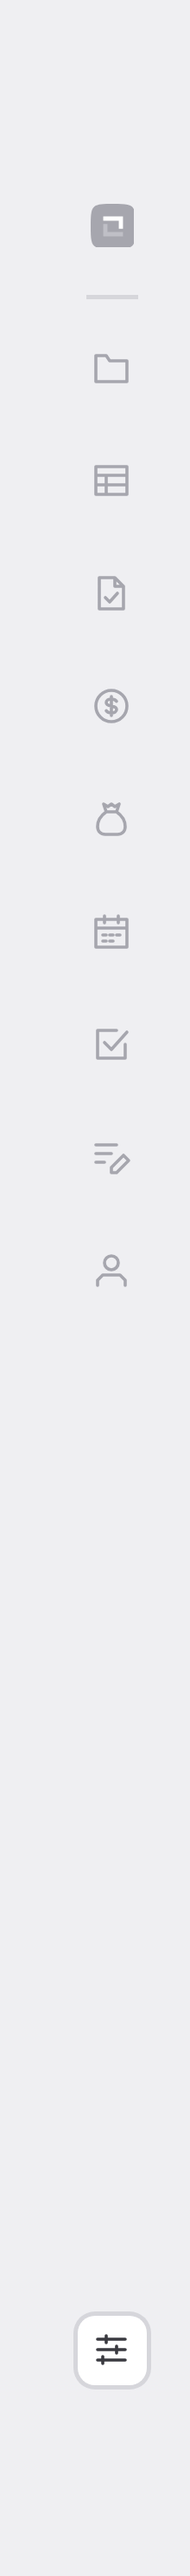
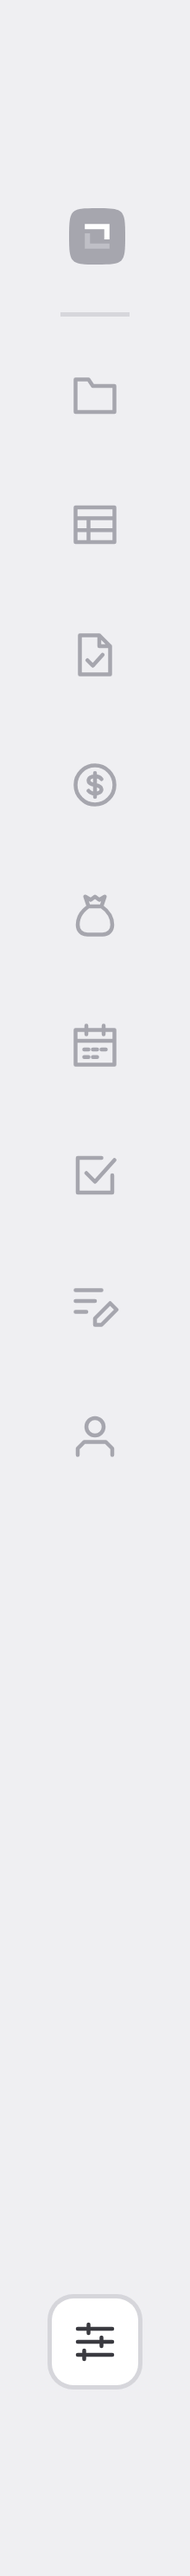
manual: band gray widened 5mm to the right, symbols unchanged [skip ci]
Claude-Session: https://claude.ai/code/session_01Jceth8a6knanqAjrfV6UhR

diff --git a/docs/manual/hangul/cover/띠-그림-22mm-아이콘그대로.html b/docs/manual/hangul/cover/띠-그림-22mm-아이콘그대로.html
@@ -1,0 +1,5 @@
+<!doctype html><meta charset=utf-8><style>body{margin:0;background:#fff}.band{width:44px;height:594px;background:#EFEFF2;position:relative;display:inline-block;margin-right:10px;vertical-align:top}
+.list{position:absolute;top:44px;left:10px;right:10px;display:flex;flex-direction:column;align-items:center;gap:10px}
+.bot{position:absolute;bottom:44px;left:10px;right:10px;display:flex;justify-content:center}
+.sm{width:20px;height:20px;border-radius:5px;display:flex;align-items:center;justify-content:center}.sm.on{background:#fff;box-shadow:0 0 0 1px #D6D6DB}
+.sm svg{display:block}.sdiv{width:16px;height:1px;background:#D6D6DB;margin:-2px 0}</style><div class="band" id="b_overview"><div class="list"><div class="sm on"><svg viewBox="0 0 100 100" width="13" height="13"><path d="M50 0C97.7 0 100 2.3 100 50C100 97.7 97.7 100 50 100C2.3 100 0 97.7 0 50C0 2.3 2.3 0 50 0Z" fill="#3A3A40"/><g transform="translate(50 50) scale(0.667) translate(-50 -50)"><path d="M17 17H83V58H69V31H17Z" fill="#FFFFFF"/><path d="M17 42H31V69H83V83H17Z" fill="#BFBFC6"/></g></svg></div><div class="sdiv"></div><div class="sm"><svg viewBox="0 0 24 24" width="12" height="12" fill="none" stroke="#A6A6AE" stroke-width="1.8" stroke-linecap="round" stroke-linejoin="round"><path d="M3 5h6l2 3h10v12H3z"/></svg></div><div class="sm"><svg viewBox="0 0 24 24" width="12" height="12" fill="none" stroke="#A6A6AE" stroke-width="1.8" stroke-linecap="round" stroke-linejoin="round"><path d="M3 4h18v16H3z M3 9h18 M3 14.5h18 M9 9v11"/></svg></div><div class="sm"><svg viewBox="0 0 24 24" width="12" height="12" fill="none" stroke="#A6A6AE" stroke-width="1.8" stroke-linecap="round" stroke-linejoin="round"><path d="M5 3h9l5 5v13H5z M14 3v5h5 M8.5 14.5l2.5 2.5 4.5-5"/></svg></div><div class="sm"><svg viewBox="0 0 24 24" width="12" height="12" fill="none" stroke="#A6A6AE" stroke-width="1.8" stroke-linecap="round" stroke-linejoin="round"><path d="M12 3a9 9 0 1 1 0 18a9 9 0 1 1 0-18z M15 9.3c-.6-.8-1.7-1.3-3-1.3-1.7 0-3 .8-3 2s1.3 1.7 3 2 3 .8 3 2-1.3 2-3 2c-1.3 0-2.4-.5-3-1.3 M12 6.5v11"/></svg></div><div class="sm"><svg viewBox="0 0 24 24" width="12" height="12" fill="none" stroke="#A6A6AE" stroke-width="1.8" stroke-linecap="round" stroke-linejoin="round"><path d="M9 8L7.5 3.5 10 5l2-1.5L14 5l2.5-1.5L15 8 M9 8h6 M9 8c-3.3 2.3-5 5.2-5 8.5 0 2.7 1.8 4.5 4.5 4.5h7c2.7 0 4.5-1.8 4.5-4.5 0-3.3-1.7-6.2-5-8.5"/></svg></div><div class="sm"><svg viewBox="0 0 24 24" width="12" height="12" fill="none" stroke="#A6A6AE" stroke-width="1.8" stroke-linecap="round" stroke-linejoin="round"><path d="M3 5h18v16H3z M3 10h18 M8 3v4 M16 3v4 M7 14h2 M11 14h2 M15 14h2 M7 17.5h2 M11 17.5h2"/></svg></div><div class="sm"><svg viewBox="0 0 24 24" width="12" height="12" fill="none" stroke="#A6A6AE" stroke-width="1.8" stroke-linecap="round" stroke-linejoin="round"><path d="M20 12v8H4V4h11 M8 11l4 4 9-10"/></svg></div><div class="sm"><svg viewBox="0 0 24 24" width="12" height="12" fill="none" stroke="#A6A6AE" stroke-width="1.8" stroke-linecap="round" stroke-linejoin="round"><path d="M3 5h12 M3 10h9 M3 15h5 M12 21v-3l7-7 3 3-7 7z"/></svg></div><div class="sm"><svg viewBox="0 0 24 24" width="12" height="12" fill="none" stroke="#A6A6AE" stroke-width="1.8" stroke-linecap="round" stroke-linejoin="round"><path d="M12 4a4 4 0 1 1 0 8a4 4 0 1 1 0-8z M4 21v-3l3-3h10l3 3v3"/></svg></div></div><div class="bot"><div class="sm"><svg viewBox="0 0 24 24" width="12" height="12" fill="none" stroke="#A6A6AE" stroke-width="1.8" stroke-linecap="round" stroke-linejoin="round"><path d="M4 6h16 M4 12h16 M4 18h16 M9 4v4 M15 10v4 M7 16v4"/></svg></div></div></div><div class="band" id="b_explorer"><div class="list"><div class="sm"><svg viewBox="0 0 100 100" width="13" height="13"><path d="M50 0C97.7 0 100 2.3 100 50C100 97.7 97.7 100 50 100C2.3 100 0 97.7 0 50C0 2.3 2.3 0 50 0Z" fill="#A6A6AE"/><g transform="translate(50 50) scale(0.667) translate(-50 -50)"><path d="M17 17H83V58H69V31H17Z" fill="#FFFFFF"/><path d="M17 42H31V69H83V83H17Z" fill="#BFBFC6"/></g></svg></div><div class="sdiv"></div><div class="sm on"><svg viewBox="0 0 24 24" width="12" height="12" fill="none" stroke="#3A3A40" stroke-width="1.8" stroke-linecap="round" stroke-linejoin="round"><path d="M3 5h6l2 3h10v12H3z"/></svg></div><div class="sm"><svg viewBox="0 0 24 24" width="12" height="12" fill="none" stroke="#A6A6AE" stroke-width="1.8" stroke-linecap="round" stroke-linejoin="round"><path d="M3 4h18v16H3z M3 9h18 M3 14.5h18 M9 9v11"/></svg></div><div class="sm"><svg viewBox="0 0 24 24" width="12" height="12" fill="none" stroke="#A6A6AE" stroke-width="1.8" stroke-linecap="round" stroke-linejoin="round"><path d="M5 3h9l5 5v13H5z M14 3v5h5 M8.5 14.5l2.5 2.5 4.5-5"/></svg></div><div class="sm"><svg viewBox="0 0 24 24" width="12" height="12" fill="none" stroke="#A6A6AE" stroke-width="1.8" stroke-linecap="round" stroke-linejoin="round"><path d="M12 3a9 9 0 1 1 0 18a9 9 0 1 1 0-18z M15 9.3c-.6-.8-1.7-1.3-3-1.3-1.7 0-3 .8-3 2s1.3 1.7 3 2 3 .8 3 2-1.3 2-3 2c-1.3 0-2.4-.5-3-1.3 M12 6.5v11"/></svg></div><div class="sm"><svg viewBox="0 0 24 24" width="12" height="12" fill="none" stroke="#A6A6AE" stroke-width="1.8" stroke-linecap="round" stroke-linejoin="round"><path d="M9 8L7.5 3.5 10 5l2-1.5L14 5l2.5-1.5L15 8 M9 8h6 M9 8c-3.3 2.3-5 5.2-5 8.5 0 2.7 1.8 4.5 4.5 4.5h7c2.7 0 4.5-1.8 4.5-4.5 0-3.3-1.7-6.2-5-8.5"/></svg></div><div class="sm"><svg viewBox="0 0 24 24" width="12" height="12" fill="none" stroke="#A6A6AE" stroke-width="1.8" stroke-linecap="round" stroke-linejoin="round"><path d="M3 5h18v16H3z M3 10h18 M8 3v4 M16 3v4 M7 14h2 M11 14h2 M15 14h2 M7 17.5h2 M11 17.5h2"/></svg></div><div class="sm"><svg viewBox="0 0 24 24" width="12" height="12" fill="none" stroke="#A6A6AE" stroke-width="1.8" stroke-linecap="round" stroke-linejoin="round"><path d="M20 12v8H4V4h11 M8 11l4 4 9-10"/></svg></div><div class="sm"><svg viewBox="0 0 24 24" width="12" height="12" fill="none" stroke="#A6A6AE" stroke-width="1.8" stroke-linecap="round" stroke-linejoin="round"><path d="M3 5h12 M3 10h9 M3 15h5 M12 21v-3l7-7 3 3-7 7z"/></svg></div><div class="sm"><svg viewBox="0 0 24 24" width="12" height="12" fill="none" stroke="#A6A6AE" stroke-width="1.8" stroke-linecap="round" stroke-linejoin="round"><path d="M12 4a4 4 0 1 1 0 8a4 4 0 1 1 0-8z M4 21v-3l3-3h10l3 3v3"/></svg></div></div><div class="bot"><div class="sm"><svg viewBox="0 0 24 24" width="12" height="12" fill="none" stroke="#A6A6AE" stroke-width="1.8" stroke-linecap="round" stroke-linejoin="round"><path d="M4 6h16 M4 12h16 M4 18h16 M9 4v4 M15 10v4 M7 16v4"/></svg></div></div></div><div class="band" id="b_complaints"><div class="list"><div class="sm"><svg viewBox="0 0 100 100" width="13" height="13"><path d="M50 0C97.7 0 100 2.3 100 50C100 97.7 97.7 100 50 100C2.3 100 0 97.7 0 50C0 2.3 2.3 0 50 0Z" fill="#A6A6AE"/><g transform="translate(50 50) scale(0.667) translate(-50 -50)"><path d="M17 17H83V58H69V31H17Z" fill="#FFFFFF"/><path d="M17 42H31V69H83V83H17Z" fill="#BFBFC6"/></g></svg></div><div class="sdiv"></div><div class="sm"><svg viewBox="0 0 24 24" width="12" height="12" fill="none" stroke="#A6A6AE" stroke-width="1.8" stroke-linecap="round" stroke-linejoin="round"><path d="M3 5h6l2 3h10v12H3z"/></svg></div><div class="sm on"><svg viewBox="0 0 24 24" width="12" height="12" fill="none" stroke="#3A3A40" stroke-width="1.8" stroke-linecap="round" stroke-linejoin="round"><path d="M3 4h18v16H3z M3 9h18 M3 14.5h18 M9 9v11"/></svg></div><div class="sm"><svg viewBox="0 0 24 24" width="12" height="12" fill="none" stroke="#A6A6AE" stroke-width="1.8" stroke-linecap="round" stroke-linejoin="round"><path d="M5 3h9l5 5v13H5z M14 3v5h5 M8.5 14.5l2.5 2.5 4.5-5"/></svg></div><div class="sm"><svg viewBox="0 0 24 24" width="12" height="12" fill="none" stroke="#A6A6AE" stroke-width="1.8" stroke-linecap="round" stroke-linejoin="round"><path d="M12 3a9 9 0 1 1 0 18a9 9 0 1 1 0-18z M15 9.3c-.6-.8-1.7-1.3-3-1.3-1.7 0-3 .8-3 2s1.3 1.7 3 2 3 .8 3 2-1.3 2-3 2c-1.3 0-2.4-.5-3-1.3 M12 6.5v11"/></svg></div><div class="sm"><svg viewBox="0 0 24 24" width="12" height="12" fill="none" stroke="#A6A6AE" stroke-width="1.8" stroke-linecap="round" stroke-linejoin="round"><path d="M9 8L7.5 3.5 10 5l2-1.5L14 5l2.5-1.5L15 8 M9 8h6 M9 8c-3.3 2.3-5 5.2-5 8.5 0 2.7 1.8 4.5 4.5 4.5h7c2.7 0 4.5-1.8 4.5-4.5 0-3.3-1.7-6.2-5-8.5"/></svg></div><div class="sm"><svg viewBox="0 0 24 24" width="12" height="12" fill="none" stroke="#A6A6AE" stroke-width="1.8" stroke-linecap="round" stroke-linejoin="round"><path d="M3 5h18v16H3z M3 10h18 M8 3v4 M16 3v4 M7 14h2 M11 14h2 M15 14h2 M7 17.5h2 M11 17.5h2"/></svg></div><div class="sm"><svg viewBox="0 0 24 24" width="12" height="12" fill="none" stroke="#A6A6AE" stroke-width="1.8" stroke-linecap="round" stroke-linejoin="round"><path d="M20 12v8H4V4h11 M8 11l4 4 9-10"/></svg></div><div class="sm"><svg viewBox="0 0 24 24" width="12" height="12" fill="none" stroke="#A6A6AE" stroke-width="1.8" stroke-linecap="round" stroke-linejoin="round"><path d="M3 5h12 M3 10h9 M3 15h5 M12 21v-3l7-7 3 3-7 7z"/></svg></div><div class="sm"><svg viewBox="0 0 24 24" width="12" height="12" fill="none" stroke="#A6A6AE" stroke-width="1.8" stroke-linecap="round" stroke-linejoin="round"><path d="M12 4a4 4 0 1 1 0 8a4 4 0 1 1 0-8z M4 21v-3l3-3h10l3 3v3"/></svg></div></div><div class="bot"><div class="sm"><svg viewBox="0 0 24 24" width="12" height="12" fill="none" stroke="#A6A6AE" stroke-width="1.8" stroke-linecap="round" stroke-linejoin="round"><path d="M4 6h16 M4 12h16 M4 18h16 M9 4v4 M15 10v4 M7 16v4"/></svg></div></div></div><div class="band" id="b_process"><div class="list"><div class="sm"><svg viewBox="0 0 100 100" width="13" height="13"><path d="M50 0C97.7 0 100 2.3 100 50C100 97.7 97.7 100 50 100C2.3 100 0 97.7 0 50C0 2.3 2.3 0 50 0Z" fill="#A6A6AE"/><g transform="translate(50 50) scale(0.667) translate(-50 -50)"><path d="M17 17H83V58H69V31H17Z" fill="#FFFFFF"/><path d="M17 42H31V69H83V83H17Z" fill="#BFBFC6"/></g></svg></div><div class="sdiv"></div><div class="sm"><svg viewBox="0 0 24 24" width="12" height="12" fill="none" stroke="#A6A6AE" stroke-width="1.8" stroke-linecap="round" stroke-linejoin="round"><path d="M3 5h6l2 3h10v12H3z"/></svg></div><div class="sm"><svg viewBox="0 0 24 24" width="12" height="12" fill="none" stroke="#A6A6AE" stroke-width="1.8" stroke-linecap="round" stroke-linejoin="round"><path d="M3 4h18v16H3z M3 9h18 M3 14.5h18 M9 9v11"/></svg></div><div class="sm on"><svg viewBox="0 0 24 24" width="12" height="12" fill="none" stroke="#3A3A40" stroke-width="1.8" stroke-linecap="round" stroke-linejoin="round"><path d="M5 3h9l5 5v13H5z M14 3v5h5 M8.5 14.5l2.5 2.5 4.5-5"/></svg></div><div class="sm"><svg viewBox="0 0 24 24" width="12" height="12" fill="none" stroke="#A6A6AE" stroke-width="1.8" stroke-linecap="round" stroke-linejoin="round"><path d="M12 3a9 9 0 1 1 0 18a9 9 0 1 1 0-18z M15 9.3c-.6-.8-1.7-1.3-3-1.3-1.7 0-3 .8-3 2s1.3 1.7 3 2 3 .8 3 2-1.3 2-3 2c-1.3 0-2.4-.5-3-1.3 M12 6.5v11"/></svg></div><div class="sm"><svg viewBox="0 0 24 24" width="12" height="12" fill="none" stroke="#A6A6AE" stroke-width="1.8" stroke-linecap="round" stroke-linejoin="round"><path d="M9 8L7.5 3.5 10 5l2-1.5L14 5l2.5-1.5L15 8 M9 8h6 M9 8c-3.3 2.3-5 5.2-5 8.5 0 2.7 1.8 4.5 4.5 4.5h7c2.7 0 4.5-1.8 4.5-4.5 0-3.3-1.7-6.2-5-8.5"/></svg></div><div class="sm"><svg viewBox="0 0 24 24" width="12" height="12" fill="none" stroke="#A6A6AE" stroke-width="1.8" stroke-linecap="round" stroke-linejoin="round"><path d="M3 5h18v16H3z M3 10h18 M8 3v4 M16 3v4 M7 14h2 M11 14h2 M15 14h2 M7 17.5h2 M11 17.5h2"/></svg></div><div class="sm"><svg viewBox="0 0 24 24" width="12" height="12" fill="none" stroke="#A6A6AE" stroke-width="1.8" stroke-linecap="round" stroke-linejoin="round"><path d="M20 12v8H4V4h11 M8 11l4 4 9-10"/></svg></div><div class="sm"><svg viewBox="0 0 24 24" width="12" height="12" fill="none" stroke="#A6A6AE" stroke-width="1.8" stroke-linecap="round" stroke-linejoin="round"><path d="M3 5h12 M3 10h9 M3 15h5 M12 21v-3l7-7 3 3-7 7z"/></svg></div><div class="sm"><svg viewBox="0 0 24 24" width="12" height="12" fill="none" stroke="#A6A6AE" stroke-width="1.8" stroke-linecap="round" stroke-linejoin="round"><path d="M12 4a4 4 0 1 1 0 8a4 4 0 1 1 0-8z M4 21v-3l3-3h10l3 3v3"/></svg></div></div><div class="bot"><div class="sm"><svg viewBox="0 0 24 24" width="12" height="12" fill="none" stroke="#A6A6AE" stroke-width="1.8" stroke-linecap="round" stroke-linejoin="round"><path d="M4 6h16 M4 12h16 M4 18h16 M9 4v4 M15 10v4 M7 16v4"/></svg></div></div></div><div class="band" id="b_budget"><div class="list"><div class="sm"><svg viewBox="0 0 100 100" width="13" height="13"><path d="M50 0C97.7 0 100 2.3 100 50C100 97.7 97.7 100 50 100C2.3 100 0 97.7 0 50C0 2.3 2.3 0 50 0Z" fill="#A6A6AE"/><g transform="translate(50 50) scale(0.667) translate(-50 -50)"><path d="M17 17H83V58H69V31H17Z" fill="#FFFFFF"/><path d="M17 42H31V69H83V83H17Z" fill="#BFBFC6"/></g></svg></div><div class="sdiv"></div><div class="sm"><svg viewBox="0 0 24 24" width="12" height="12" fill="none" stroke="#A6A6AE" stroke-width="1.8" stroke-linecap="round" stroke-linejoin="round"><path d="M3 5h6l2 3h10v12H3z"/></svg></div><div class="sm"><svg viewBox="0 0 24 24" width="12" height="12" fill="none" stroke="#A6A6AE" stroke-width="1.8" stroke-linecap="round" stroke-linejoin="round"><path d="M3 4h18v16H3z M3 9h18 M3 14.5h18 M9 9v11"/></svg></div><div class="sm"><svg viewBox="0 0 24 24" width="12" height="12" fill="none" stroke="#A6A6AE" stroke-width="1.8" stroke-linecap="round" stroke-linejoin="round"><path d="M5 3h9l5 5v13H5z M14 3v5h5 M8.5 14.5l2.5 2.5 4.5-5"/></svg></div><div class="sm on"><svg viewBox="0 0 24 24" width="12" height="12" fill="none" stroke="#3A3A40" stroke-width="1.8" stroke-linecap="round" stroke-linejoin="round"><path d="M12 3a9 9 0 1 1 0 18a9 9 0 1 1 0-18z M15 9.3c-.6-.8-1.7-1.3-3-1.3-1.7 0-3 .8-3 2s1.3 1.7 3 2 3 .8 3 2-1.3 2-3 2c-1.3 0-2.4-.5-3-1.3 M12 6.5v11"/></svg></div><div class="sm"><svg viewBox="0 0 24 24" width="12" height="12" fill="none" stroke="#A6A6AE" stroke-width="1.8" stroke-linecap="round" stroke-linejoin="round"><path d="M9 8L7.5 3.5 10 5l2-1.5L14 5l2.5-1.5L15 8 M9 8h6 M9 8c-3.3 2.3-5 5.2-5 8.5 0 2.7 1.8 4.5 4.5 4.5h7c2.7 0 4.5-1.8 4.5-4.5 0-3.3-1.7-6.2-5-8.5"/></svg></div><div class="sm"><svg viewBox="0 0 24 24" width="12" height="12" fill="none" stroke="#A6A6AE" stroke-width="1.8" stroke-linecap="round" stroke-linejoin="round"><path d="M3 5h18v16H3z M3 10h18 M8 3v4 M16 3v4 M7 14h2 M11 14h2 M15 14h2 M7 17.5h2 M11 17.5h2"/></svg></div><div class="sm"><svg viewBox="0 0 24 24" width="12" height="12" fill="none" stroke="#A6A6AE" stroke-width="1.8" stroke-linecap="round" stroke-linejoin="round"><path d="M20 12v8H4V4h11 M8 11l4 4 9-10"/></svg></div><div class="sm"><svg viewBox="0 0 24 24" width="12" height="12" fill="none" stroke="#A6A6AE" stroke-width="1.8" stroke-linecap="round" stroke-linejoin="round"><path d="M3 5h12 M3 10h9 M3 15h5 M12 21v-3l7-7 3 3-7 7z"/></svg></div><div class="sm"><svg viewBox="0 0 24 24" width="12" height="12" fill="none" stroke="#A6A6AE" stroke-width="1.8" stroke-linecap="round" stroke-linejoin="round"><path d="M12 4a4 4 0 1 1 0 8a4 4 0 1 1 0-8z M4 21v-3l3-3h10l3 3v3"/></svg></div></div><div class="bot"><div class="sm"><svg viewBox="0 0 24 24" width="12" height="12" fill="none" stroke="#A6A6AE" stroke-width="1.8" stroke-linecap="round" stroke-linejoin="round"><path d="M4 6h16 M4 12h16 M4 18h16 M9 4v4 M15 10v4 M7 16v4"/></svg></div></div></div><div class="band" id="b_bstatus"><div class="list"><div class="sm"><svg viewBox="0 0 100 100" width="13" height="13"><path d="M50 0C97.7 0 100 2.3 100 50C100 97.7 97.7 100 50 100C2.3 100 0 97.7 0 50C0 2.3 2.3 0 50 0Z" fill="#A6A6AE"/><g transform="translate(50 50) scale(0.667) translate(-50 -50)"><path d="M17 17H83V58H69V31H17Z" fill="#FFFFFF"/><path d="M17 42H31V69H83V83H17Z" fill="#BFBFC6"/></g></svg></div><div class="sdiv"></div><div class="sm"><svg viewBox="0 0 24 24" width="12" height="12" fill="none" stroke="#A6A6AE" stroke-width="1.8" stroke-linecap="round" stroke-linejoin="round"><path d="M3 5h6l2 3h10v12H3z"/></svg></div><div class="sm"><svg viewBox="0 0 24 24" width="12" height="12" fill="none" stroke="#A6A6AE" stroke-width="1.8" stroke-linecap="round" stroke-linejoin="round"><path d="M3 4h18v16H3z M3 9h18 M3 14.5h18 M9 9v11"/></svg></div><div class="sm"><svg viewBox="0 0 24 24" width="12" height="12" fill="none" stroke="#A6A6AE" stroke-width="1.8" stroke-linecap="round" stroke-linejoin="round"><path d="M5 3h9l5 5v13H5z M14 3v5h5 M8.5 14.5l2.5 2.5 4.5-5"/></svg></div><div class="sm"><svg viewBox="0 0 24 24" width="12" height="12" fill="none" stroke="#A6A6AE" stroke-width="1.8" stroke-linecap="round" stroke-linejoin="round"><path d="M12 3a9 9 0 1 1 0 18a9 9 0 1 1 0-18z M15 9.3c-.6-.8-1.7-1.3-3-1.3-1.7 0-3 .8-3 2s1.3 1.7 3 2 3 .8 3 2-1.3 2-3 2c-1.3 0-2.4-.5-3-1.3 M12 6.5v11"/></svg></div><div class="sm on"><svg viewBox="0 0 24 24" width="12" height="12" fill="none" stroke="#3A3A40" stroke-width="1.8" stroke-linecap="round" stroke-linejoin="round"><path d="M9 8L7.5 3.5 10 5l2-1.5L14 5l2.5-1.5L15 8 M9 8h6 M9 8c-3.3 2.3-5 5.2-5 8.5 0 2.7 1.8 4.5 4.5 4.5h7c2.7 0 4.5-1.8 4.5-4.5 0-3.3-1.7-6.2-5-8.5"/></svg></div><div class="sm"><svg viewBox="0 0 24 24" width="12" height="12" fill="none" stroke="#A6A6AE" stroke-width="1.8" stroke-linecap="round" stroke-linejoin="round"><path d="M3 5h18v16H3z M3 10h18 M8 3v4 M16 3v4 M7 14h2 M11 14h2 M15 14h2 M7 17.5h2 M11 17.5h2"/></svg></div><div class="sm"><svg viewBox="0 0 24 24" width="12" height="12" fill="none" stroke="#A6A6AE" stroke-width="1.8" stroke-linecap="round" stroke-linejoin="round"><path d="M20 12v8H4V4h11 M8 11l4 4 9-10"/></svg></div><div class="sm"><svg viewBox="0 0 24 24" width="12" height="12" fill="none" stroke="#A6A6AE" stroke-width="1.8" stroke-linecap="round" stroke-linejoin="round"><path d="M3 5h12 M3 10h9 M3 15h5 M12 21v-3l7-7 3 3-7 7z"/></svg></div><div class="sm"><svg viewBox="0 0 24 24" width="12" height="12" fill="none" stroke="#A6A6AE" stroke-width="1.8" stroke-linecap="round" stroke-linejoin="round"><path d="M12 4a4 4 0 1 1 0 8a4 4 0 1 1 0-8z M4 21v-3l3-3h10l3 3v3"/></svg></div></div><div class="bot"><div class="sm"><svg viewBox="0 0 24 24" width="12" height="12" fill="none" stroke="#A6A6AE" stroke-width="1.8" stroke-linecap="round" stroke-linejoin="round"><path d="M4 6h16 M4 12h16 M4 18h16 M9 4v4 M15 10v4 M7 16v4"/></svg></div></div></div><div class="band" id="b_calendar"><div class="list"><div class="sm"><svg viewBox="0 0 100 100" width="13" height="13"><path d="M50 0C97.7 0 100 2.3 100 50C100 97.7 97.7 100 50 100C2.3 100 0 97.7 0 50C0 2.3 2.3 0 50 0Z" fill="#A6A6AE"/><g transform="translate(50 50) scale(0.667) translate(-50 -50)"><path d="M17 17H83V58H69V31H17Z" fill="#FFFFFF"/><path d="M17 42H31V69H83V83H17Z" fill="#BFBFC6"/></g></svg></div><div class="sdiv"></div><div class="sm"><svg viewBox="0 0 24 24" width="12" height="12" fill="none" stroke="#A6A6AE" stroke-width="1.8" stroke-linecap="round" stroke-linejoin="round"><path d="M3 5h6l2 3h10v12H3z"/></svg></div><div class="sm"><svg viewBox="0 0 24 24" width="12" height="12" fill="none" stroke="#A6A6AE" stroke-width="1.8" stroke-linecap="round" stroke-linejoin="round"><path d="M3 4h18v16H3z M3 9h18 M3 14.5h18 M9 9v11"/></svg></div><div class="sm"><svg viewBox="0 0 24 24" width="12" height="12" fill="none" stroke="#A6A6AE" stroke-width="1.8" stroke-linecap="round" stroke-linejoin="round"><path d="M5 3h9l5 5v13H5z M14 3v5h5 M8.5 14.5l2.5 2.5 4.5-5"/></svg></div><div class="sm"><svg viewBox="0 0 24 24" width="12" height="12" fill="none" stroke="#A6A6AE" stroke-width="1.8" stroke-linecap="round" stroke-linejoin="round"><path d="M12 3a9 9 0 1 1 0 18a9 9 0 1 1 0-18z M15 9.3c-.6-.8-1.7-1.3-3-1.3-1.7 0-3 .8-3 2s1.3 1.7 3 2 3 .8 3 2-1.3 2-3 2c-1.3 0-2.4-.5-3-1.3 M12 6.5v11"/></svg></div><div class="sm"><svg viewBox="0 0 24 24" width="12" height="12" fill="none" stroke="#A6A6AE" stroke-width="1.8" stroke-linecap="round" stroke-linejoin="round"><path d="M9 8L7.5 3.5 10 5l2-1.5L14 5l2.5-1.5L15 8 M9 8h6 M9 8c-3.3 2.3-5 5.2-5 8.5 0 2.7 1.8 4.5 4.5 4.5h7c2.7 0 4.5-1.8 4.5-4.5 0-3.3-1.7-6.2-5-8.5"/></svg></div><div class="sm on"><svg viewBox="0 0 24 24" width="12" height="12" fill="none" stroke="#3A3A40" stroke-width="1.8" stroke-linecap="round" stroke-linejoin="round"><path d="M3 5h18v16H3z M3 10h18 M8 3v4 M16 3v4 M7 14h2 M11 14h2 M15 14h2 M7 17.5h2 M11 17.5h2"/></svg></div><div class="sm"><svg viewBox="0 0 24 24" width="12" height="12" fill="none" stroke="#A6A6AE" stroke-width="1.8" stroke-linecap="round" stroke-linejoin="round"><path d="M20 12v8H4V4h11 M8 11l4 4 9-10"/></svg></div><div class="sm"><svg viewBox="0 0 24 24" width="12" height="12" fill="none" stroke="#A6A6AE" stroke-width="1.8" stroke-linecap="round" stroke-linejoin="round"><path d="M3 5h12 M3 10h9 M3 15h5 M12 21v-3l7-7 3 3-7 7z"/></svg></div><div class="sm"><svg viewBox="0 0 24 24" width="12" height="12" fill="none" stroke="#A6A6AE" stroke-width="1.8" stroke-linecap="round" stroke-linejoin="round"><path d="M12 4a4 4 0 1 1 0 8a4 4 0 1 1 0-8z M4 21v-3l3-3h10l3 3v3"/></svg></div></div><div class="bot"><div class="sm"><svg viewBox="0 0 24 24" width="12" height="12" fill="none" stroke="#A6A6AE" stroke-width="1.8" stroke-linecap="round" stroke-linejoin="round"><path d="M4 6h16 M4 12h16 M4 18h16 M9 4v4 M15 10v4 M7 16v4"/></svg></div></div></div><div class="band" id="b_todo"><div class="list"><div class="sm"><svg viewBox="0 0 100 100" width="13" height="13"><path d="M50 0C97.7 0 100 2.3 100 50C100 97.7 97.7 100 50 100C2.3 100 0 97.7 0 50C0 2.3 2.3 0 50 0Z" fill="#A6A6AE"/><g transform="translate(50 50) scale(0.667) translate(-50 -50)"><path d="M17 17H83V58H69V31H17Z" fill="#FFFFFF"/><path d="M17 42H31V69H83V83H17Z" fill="#BFBFC6"/></g></svg></div><div class="sdiv"></div><div class="sm"><svg viewBox="0 0 24 24" width="12" height="12" fill="none" stroke="#A6A6AE" stroke-width="1.8" stroke-linecap="round" stroke-linejoin="round"><path d="M3 5h6l2 3h10v12H3z"/></svg></div><div class="sm"><svg viewBox="0 0 24 24" width="12" height="12" fill="none" stroke="#A6A6AE" stroke-width="1.8" stroke-linecap="round" stroke-linejoin="round"><path d="M3 4h18v16H3z M3 9h18 M3 14.5h18 M9 9v11"/></svg></div><div class="sm"><svg viewBox="0 0 24 24" width="12" height="12" fill="none" stroke="#A6A6AE" stroke-width="1.8" stroke-linecap="round" stroke-linejoin="round"><path d="M5 3h9l5 5v13H5z M14 3v5h5 M8.5 14.5l2.5 2.5 4.5-5"/></svg></div><div class="sm"><svg viewBox="0 0 24 24" width="12" height="12" fill="none" stroke="#A6A6AE" stroke-width="1.8" stroke-linecap="round" stroke-linejoin="round"><path d="M12 3a9 9 0 1 1 0 18a9 9 0 1 1 0-18z M15 9.3c-.6-.8-1.7-1.3-3-1.3-1.7 0-3 .8-3 2s1.3 1.7 3 2 3 .8 3 2-1.3 2-3 2c-1.3 0-2.4-.5-3-1.3 M12 6.5v11"/></svg></div><div class="sm"><svg viewBox="0 0 24 24" width="12" height="12" fill="none" stroke="#A6A6AE" stroke-width="1.8" stroke-linecap="round" stroke-linejoin="round"><path d="M9 8L7.5 3.5 10 5l2-1.5L14 5l2.5-1.5L15 8 M9 8h6 M9 8c-3.3 2.3-5 5.2-5 8.5 0 2.7 1.8 4.5 4.5 4.5h7c2.7 0 4.5-1.8 4.5-4.5 0-3.3-1.7-6.2-5-8.5"/></svg></div><div class="sm"><svg viewBox="0 0 24 24" width="12" height="12" fill="none" stroke="#A6A6AE" stroke-width="1.8" stroke-linecap="round" stroke-linejoin="round"><path d="M3 5h18v16H3z M3 10h18 M8 3v4 M16 3v4 M7 14h2 M11 14h2 M15 14h2 M7 17.5h2 M11 17.5h2"/></svg></div><div class="sm on"><svg viewBox="0 0 24 24" width="12" height="12" fill="none" stroke="#3A3A40" stroke-width="1.8" stroke-linecap="round" stroke-linejoin="round"><path d="M20 12v8H4V4h11 M8 11l4 4 9-10"/></svg></div><div class="sm"><svg viewBox="0 0 24 24" width="12" height="12" fill="none" stroke="#A6A6AE" stroke-width="1.8" stroke-linecap="round" stroke-linejoin="round"><path d="M3 5h12 M3 10h9 M3 15h5 M12 21v-3l7-7 3 3-7 7z"/></svg></div><div class="sm"><svg viewBox="0 0 24 24" width="12" height="12" fill="none" stroke="#A6A6AE" stroke-width="1.8" stroke-linecap="round" stroke-linejoin="round"><path d="M12 4a4 4 0 1 1 0 8a4 4 0 1 1 0-8z M4 21v-3l3-3h10l3 3v3"/></svg></div></div><div class="bot"><div class="sm"><svg viewBox="0 0 24 24" width="12" height="12" fill="none" stroke="#A6A6AE" stroke-width="1.8" stroke-linecap="round" stroke-linejoin="round"><path d="M4 6h16 M4 12h16 M4 18h16 M9 4v4 M15 10v4 M7 16v4"/></svg></div></div></div><div class="band" id="b_journal"><div class="list"><div class="sm"><svg viewBox="0 0 100 100" width="13" height="13"><path d="M50 0C97.7 0 100 2.3 100 50C100 97.7 97.7 100 50 100C2.3 100 0 97.7 0 50C0 2.3 2.3 0 50 0Z" fill="#A6A6AE"/><g transform="translate(50 50) scale(0.667) translate(-50 -50)"><path d="M17 17H83V58H69V31H17Z" fill="#FFFFFF"/><path d="M17 42H31V69H83V83H17Z" fill="#BFBFC6"/></g></svg></div><div class="sdiv"></div><div class="sm"><svg viewBox="0 0 24 24" width="12" height="12" fill="none" stroke="#A6A6AE" stroke-width="1.8" stroke-linecap="round" stroke-linejoin="round"><path d="M3 5h6l2 3h10v12H3z"/></svg></div><div class="sm"><svg viewBox="0 0 24 24" width="12" height="12" fill="none" stroke="#A6A6AE" stroke-width="1.8" stroke-linecap="round" stroke-linejoin="round"><path d="M3 4h18v16H3z M3 9h18 M3 14.5h18 M9 9v11"/></svg></div><div class="sm"><svg viewBox="0 0 24 24" width="12" height="12" fill="none" stroke="#A6A6AE" stroke-width="1.8" stroke-linecap="round" stroke-linejoin="round"><path d="M5 3h9l5 5v13H5z M14 3v5h5 M8.5 14.5l2.5 2.5 4.5-5"/></svg></div><div class="sm"><svg viewBox="0 0 24 24" width="12" height="12" fill="none" stroke="#A6A6AE" stroke-width="1.8" stroke-linecap="round" stroke-linejoin="round"><path d="M12 3a9 9 0 1 1 0 18a9 9 0 1 1 0-18z M15 9.3c-.6-.8-1.7-1.3-3-1.3-1.7 0-3 .8-3 2s1.3 1.7 3 2 3 .8 3 2-1.3 2-3 2c-1.3 0-2.4-.5-3-1.3 M12 6.5v11"/></svg></div><div class="sm"><svg viewBox="0 0 24 24" width="12" height="12" fill="none" stroke="#A6A6AE" stroke-width="1.8" stroke-linecap="round" stroke-linejoin="round"><path d="M9 8L7.5 3.5 10 5l2-1.5L14 5l2.5-1.5L15 8 M9 8h6 M9 8c-3.3 2.3-5 5.2-5 8.5 0 2.7 1.8 4.5 4.5 4.5h7c2.7 0 4.5-1.8 4.5-4.5 0-3.3-1.7-6.2-5-8.5"/></svg></div><div class="sm"><svg viewBox="0 0 24 24" width="12" height="12" fill="none" stroke="#A6A6AE" stroke-width="1.8" stroke-linecap="round" stroke-linejoin="round"><path d="M3 5h18v16H3z M3 10h18 M8 3v4 M16 3v4 M7 14h2 M11 14h2 M15 14h2 M7 17.5h2 M11 17.5h2"/></svg></div><div class="sm"><svg viewBox="0 0 24 24" width="12" height="12" fill="none" stroke="#A6A6AE" stroke-width="1.8" stroke-linecap="round" stroke-linejoin="round"><path d="M20 12v8H4V4h11 M8 11l4 4 9-10"/></svg></div><div class="sm on"><svg viewBox="0 0 24 24" width="12" height="12" fill="none" stroke="#3A3A40" stroke-width="1.8" stroke-linecap="round" stroke-linejoin="round"><path d="M3 5h12 M3 10h9 M3 15h5 M12 21v-3l7-7 3 3-7 7z"/></svg></div><div class="sm"><svg viewBox="0 0 24 24" width="12" height="12" fill="none" stroke="#A6A6AE" stroke-width="1.8" stroke-linecap="round" stroke-linejoin="round"><path d="M12 4a4 4 0 1 1 0 8a4 4 0 1 1 0-8z M4 21v-3l3-3h10l3 3v3"/></svg></div></div><div class="bot"><div class="sm"><svg viewBox="0 0 24 24" width="12" height="12" fill="none" stroke="#A6A6AE" stroke-width="1.8" stroke-linecap="round" stroke-linejoin="round"><path d="M4 6h16 M4 12h16 M4 18h16 M9 4v4 M15 10v4 M7 16v4"/></svg></div></div></div><div class="band" id="b_contacts"><div class="list"><div class="sm"><svg viewBox="0 0 100 100" width="13" height="13"><path d="M50 0C97.7 0 100 2.3 100 50C100 97.7 97.7 100 50 100C2.3 100 0 97.7 0 50C0 2.3 2.3 0 50 0Z" fill="#A6A6AE"/><g transform="translate(50 50) scale(0.667) translate(-50 -50)"><path d="M17 17H83V58H69V31H17Z" fill="#FFFFFF"/><path d="M17 42H31V69H83V83H17Z" fill="#BFBFC6"/></g></svg></div><div class="sdiv"></div><div class="sm"><svg viewBox="0 0 24 24" width="12" height="12" fill="none" stroke="#A6A6AE" stroke-width="1.8" stroke-linecap="round" stroke-linejoin="round"><path d="M3 5h6l2 3h10v12H3z"/></svg></div><div class="sm"><svg viewBox="0 0 24 24" width="12" height="12" fill="none" stroke="#A6A6AE" stroke-width="1.8" stroke-linecap="round" stroke-linejoin="round"><path d="M3 4h18v16H3z M3 9h18 M3 14.5h18 M9 9v11"/></svg></div><div class="sm"><svg viewBox="0 0 24 24" width="12" height="12" fill="none" stroke="#A6A6AE" stroke-width="1.8" stroke-linecap="round" stroke-linejoin="round"><path d="M5 3h9l5 5v13H5z M14 3v5h5 M8.5 14.5l2.5 2.5 4.5-5"/></svg></div><div class="sm"><svg viewBox="0 0 24 24" width="12" height="12" fill="none" stroke="#A6A6AE" stroke-width="1.8" stroke-linecap="round" stroke-linejoin="round"><path d="M12 3a9 9 0 1 1 0 18a9 9 0 1 1 0-18z M15 9.3c-.6-.8-1.7-1.3-3-1.3-1.7 0-3 .8-3 2s1.3 1.7 3 2 3 .8 3 2-1.3 2-3 2c-1.3 0-2.4-.5-3-1.3 M12 6.5v11"/></svg></div><div class="sm"><svg viewBox="0 0 24 24" width="12" height="12" fill="none" stroke="#A6A6AE" stroke-width="1.8" stroke-linecap="round" stroke-linejoin="round"><path d="M9 8L7.5 3.5 10 5l2-1.5L14 5l2.5-1.5L15 8 M9 8h6 M9 8c-3.3 2.3-5 5.2-5 8.5 0 2.7 1.8 4.5 4.5 4.5h7c2.7 0 4.5-1.8 4.5-4.5 0-3.3-1.7-6.2-5-8.5"/></svg></div><div class="sm"><svg viewBox="0 0 24 24" width="12" height="12" fill="none" stroke="#A6A6AE" stroke-width="1.8" stroke-linecap="round" stroke-linejoin="round"><path d="M3 5h18v16H3z M3 10h18 M8 3v4 M16 3v4 M7 14h2 M11 14h2 M15 14h2 M7 17.5h2 M11 17.5h2"/></svg></div><div class="sm"><svg viewBox="0 0 24 24" width="12" height="12" fill="none" stroke="#A6A6AE" stroke-width="1.8" stroke-linecap="round" stroke-linejoin="round"><path d="M20 12v8H4V4h11 M8 11l4 4 9-10"/></svg></div><div class="sm"><svg viewBox="0 0 24 24" width="12" height="12" fill="none" stroke="#A6A6AE" stroke-width="1.8" stroke-linecap="round" stroke-linejoin="round"><path d="M3 5h12 M3 10h9 M3 15h5 M12 21v-3l7-7 3 3-7 7z"/></svg></div><div class="sm on"><svg viewBox="0 0 24 24" width="12" height="12" fill="none" stroke="#3A3A40" stroke-width="1.8" stroke-linecap="round" stroke-linejoin="round"><path d="M12 4a4 4 0 1 1 0 8a4 4 0 1 1 0-8z M4 21v-3l3-3h10l3 3v3"/></svg></div></div><div class="bot"><div class="sm"><svg viewBox="0 0 24 24" width="12" height="12" fill="none" stroke="#A6A6AE" stroke-width="1.8" stroke-linecap="round" stroke-linejoin="round"><path d="M4 6h16 M4 12h16 M4 18h16 M9 4v4 M15 10v4 M7 16v4"/></svg></div></div></div><div class="band" id="b_settings"><div class="list"><div class="sm"><svg viewBox="0 0 100 100" width="13" height="13"><path d="M50 0C97.7 0 100 2.3 100 50C100 97.7 97.7 100 50 100C2.3 100 0 97.7 0 50C0 2.3 2.3 0 50 0Z" fill="#A6A6AE"/><g transform="translate(50 50) scale(0.667) translate(-50 -50)"><path d="M17 17H83V58H69V31H17Z" fill="#FFFFFF"/><path d="M17 42H31V69H83V83H17Z" fill="#BFBFC6"/></g></svg></div><div class="sdiv"></div><div class="sm"><svg viewBox="0 0 24 24" width="12" height="12" fill="none" stroke="#A6A6AE" stroke-width="1.8" stroke-linecap="round" stroke-linejoin="round"><path d="M3 5h6l2 3h10v12H3z"/></svg></div><div class="sm"><svg viewBox="0 0 24 24" width="12" height="12" fill="none" stroke="#A6A6AE" stroke-width="1.8" stroke-linecap="round" stroke-linejoin="round"><path d="M3 4h18v16H3z M3 9h18 M3 14.5h18 M9 9v11"/></svg></div><div class="sm"><svg viewBox="0 0 24 24" width="12" height="12" fill="none" stroke="#A6A6AE" stroke-width="1.8" stroke-linecap="round" stroke-linejoin="round"><path d="M5 3h9l5 5v13H5z M14 3v5h5 M8.5 14.5l2.5 2.5 4.5-5"/></svg></div><div class="sm"><svg viewBox="0 0 24 24" width="12" height="12" fill="none" stroke="#A6A6AE" stroke-width="1.8" stroke-linecap="round" stroke-linejoin="round"><path d="M12 3a9 9 0 1 1 0 18a9 9 0 1 1 0-18z M15 9.3c-.6-.8-1.7-1.3-3-1.3-1.7 0-3 .8-3 2s1.3 1.7 3 2 3 .8 3 2-1.3 2-3 2c-1.3 0-2.4-.5-3-1.3 M12 6.5v11"/></svg></div><div class="sm"><svg viewBox="0 0 24 24" width="12" height="12" fill="none" stroke="#A6A6AE" stroke-width="1.8" stroke-linecap="round" stroke-linejoin="round"><path d="M9 8L7.5 3.5 10 5l2-1.5L14 5l2.5-1.5L15 8 M9 8h6 M9 8c-3.3 2.3-5 5.2-5 8.5 0 2.7 1.8 4.5 4.5 4.5h7c2.7 0 4.5-1.8 4.5-4.5 0-3.3-1.7-6.2-5-8.5"/></svg></div><div class="sm"><svg viewBox="0 0 24 24" width="12" height="12" fill="none" stroke="#A6A6AE" stroke-width="1.8" stroke-linecap="round" stroke-linejoin="round"><path d="M3 5h18v16H3z M3 10h18 M8 3v4 M16 3v4 M7 14h2 M11 14h2 M15 14h2 M7 17.5h2 M11 17.5h2"/></svg></div><div class="sm"><svg viewBox="0 0 24 24" width="12" height="12" fill="none" stroke="#A6A6AE" stroke-width="1.8" stroke-linecap="round" stroke-linejoin="round"><path d="M20 12v8H4V4h11 M8 11l4 4 9-10"/></svg></div><div class="sm"><svg viewBox="0 0 24 24" width="12" height="12" fill="none" stroke="#A6A6AE" stroke-width="1.8" stroke-linecap="round" stroke-linejoin="round"><path d="M3 5h12 M3 10h9 M3 15h5 M12 21v-3l7-7 3 3-7 7z"/></svg></div><div class="sm"><svg viewBox="0 0 24 24" width="12" height="12" fill="none" stroke="#A6A6AE" stroke-width="1.8" stroke-linecap="round" stroke-linejoin="round"><path d="M12 4a4 4 0 1 1 0 8a4 4 0 1 1 0-8z M4 21v-3l3-3h10l3 3v3"/></svg></div></div><div class="bot"><div class="sm on"><svg viewBox="0 0 24 24" width="12" height="12" fill="none" stroke="#3A3A40" stroke-width="1.8" stroke-linecap="round" stroke-linejoin="round"><path d="M4 6h16 M4 12h16 M4 18h16 M9 4v4 M15 10v4 M7 16v4"/></svg></div></div></div>
